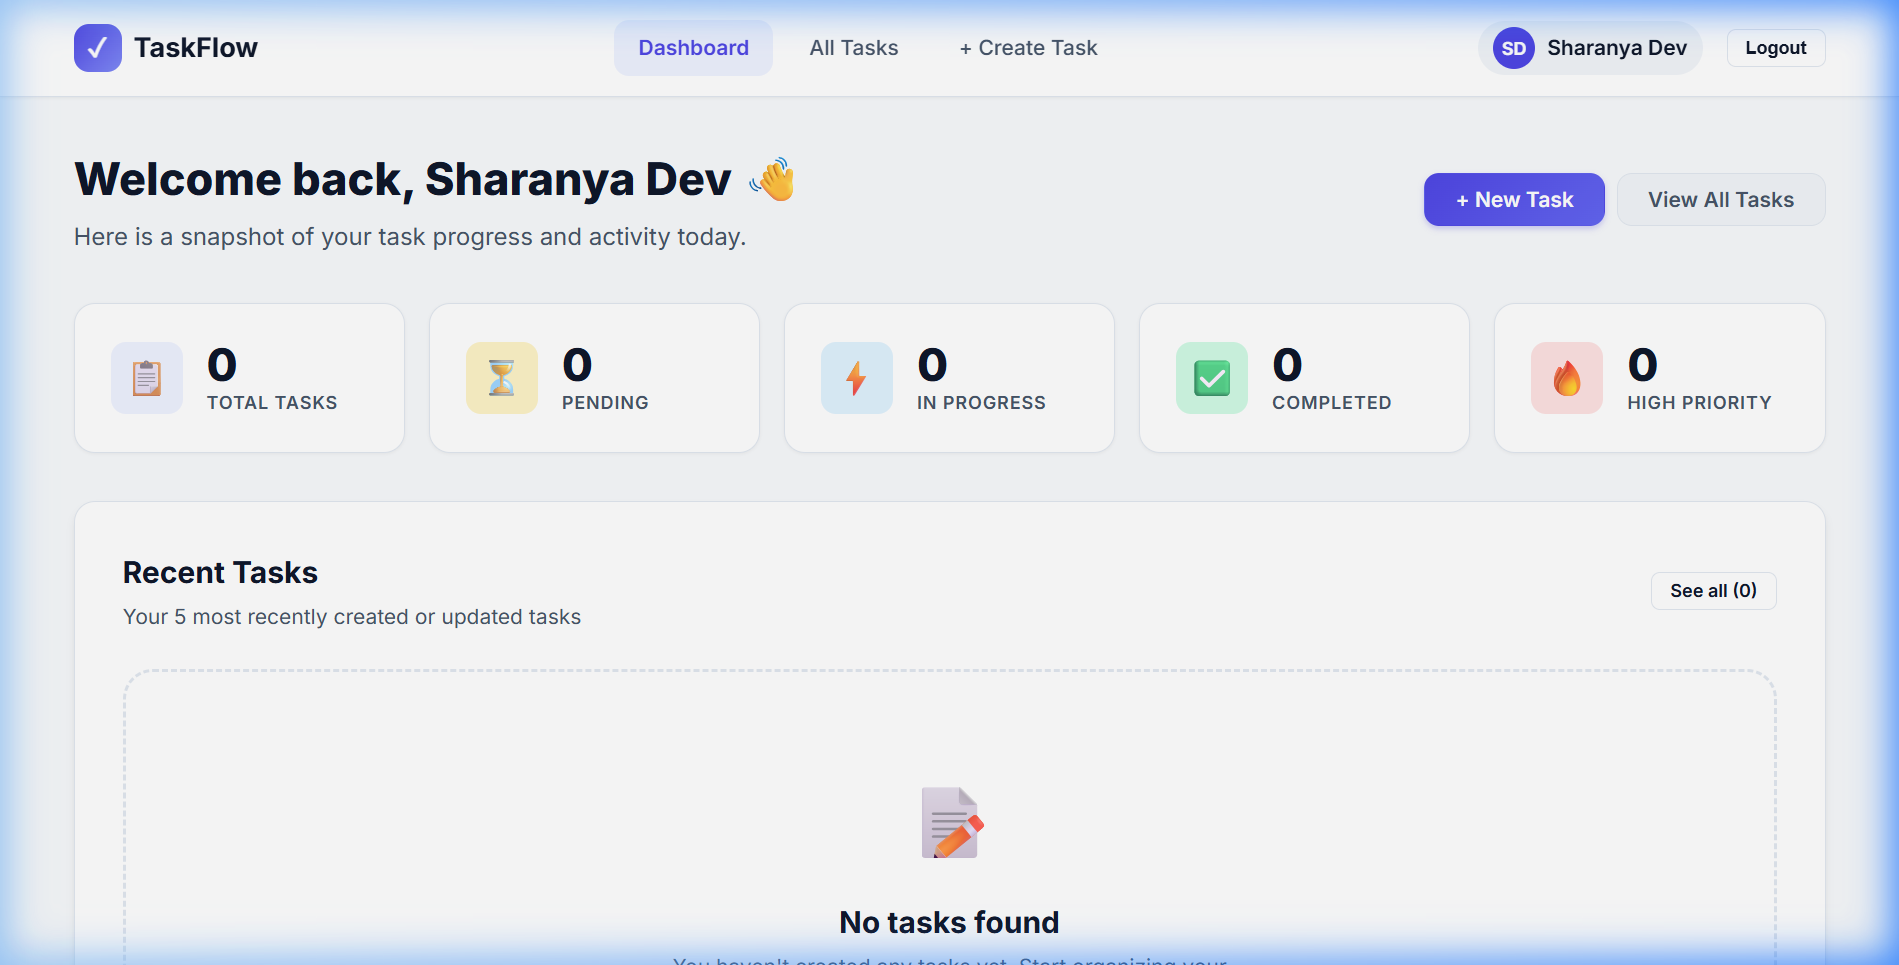
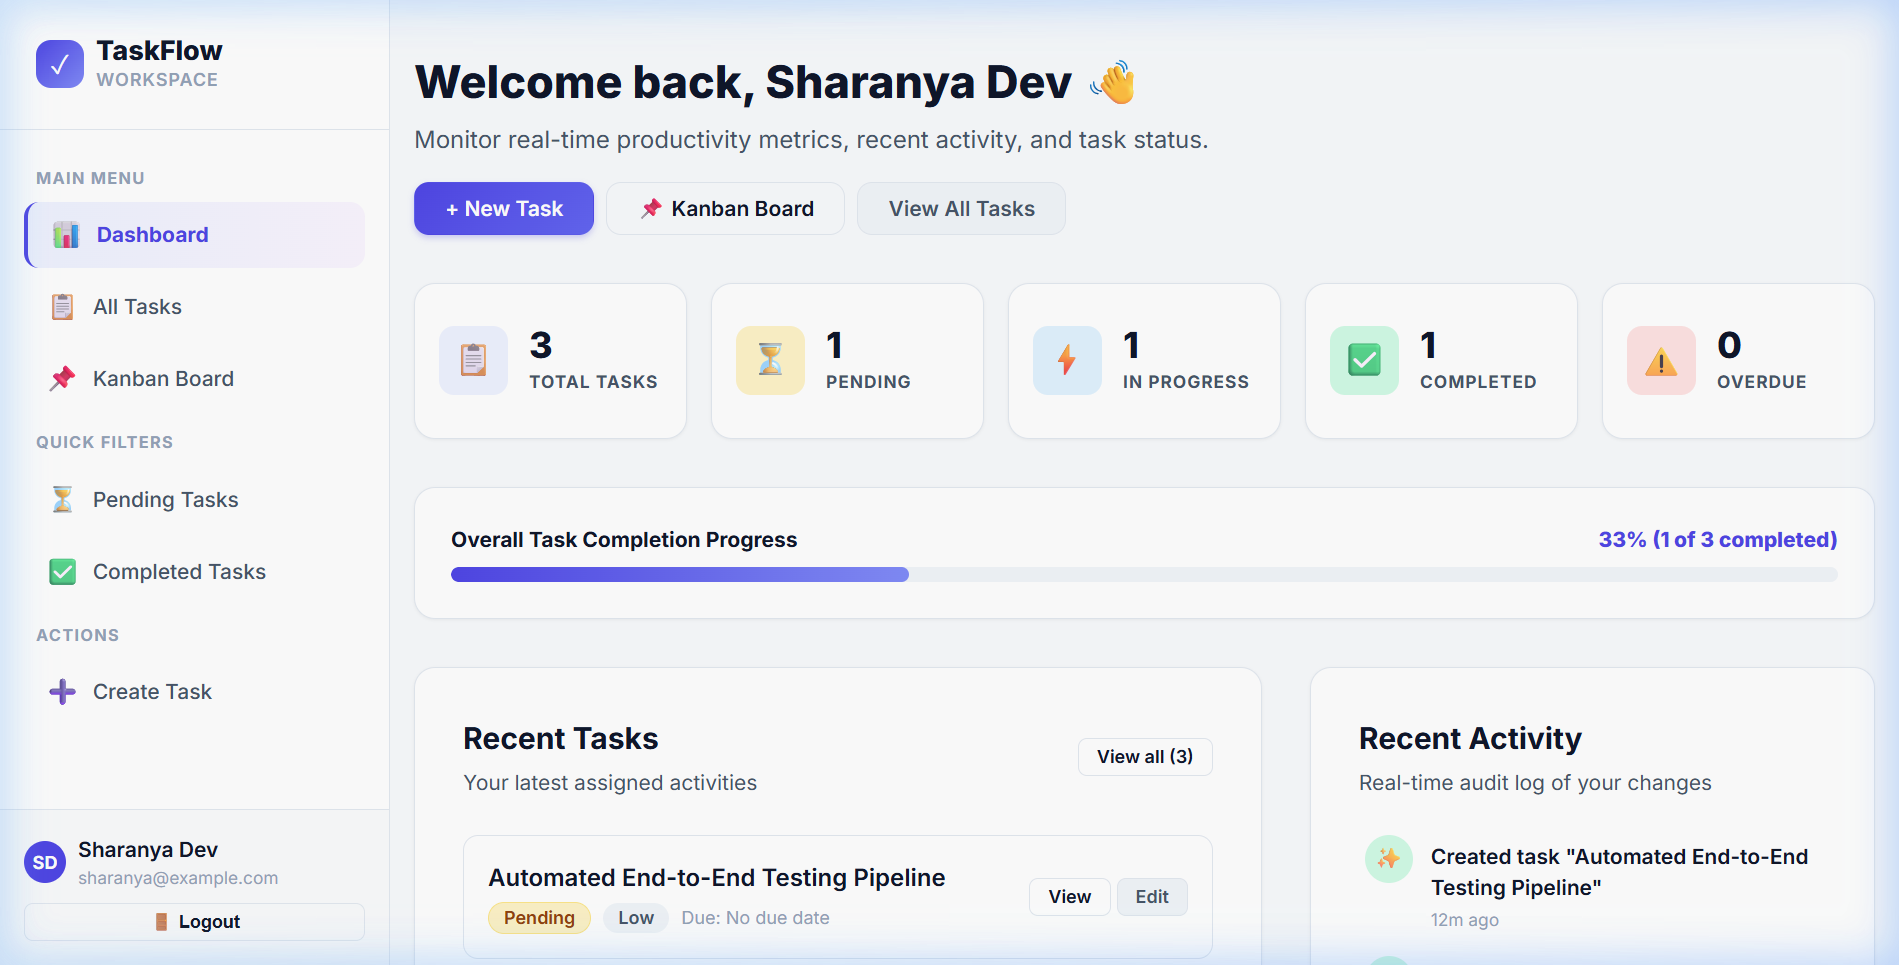
fix(ui): balance 5-card dashboard grid, add native DnD to kanban, quick status on task list, safe date parsing, and accessibility focus

diff --git a/frontend/src/styles/global.css b/frontend/src/styles/global.css
@@ -572,12 +572,12 @@ a:hover {
 }
 
 /* ==========================================================================
-   Dashboard Metrics
+   Dashboard Metrics (5 Cards Symmetrical Grid)
    ========================================================================== */
 
 .metrics-grid {
   display: grid;
-  grid-template-columns: repeat(auto-fit, minmax(220px, 1fr));
+  grid-template-columns: repeat(5, 1fr);
   gap: var(--space-md);
   margin-bottom: var(--space-xl);
 }
@@ -586,47 +586,104 @@ a:hover {
   background: var(--bg-surface);
   border: 1px solid var(--border-color);
   border-radius: var(--radius-lg);
-  padding: var(--space-lg);
+  padding: 1.25rem 1rem;
   box-shadow: var(--shadow-sm);
   display: flex;
   align-items: center;
-  gap: var(--space-md);
+  gap: 0.875rem;
+  min-height: 104px;
   transition: var(--transition);
+  position: relative;
+  overflow: hidden;
 }
 
 .metric-card:hover {
   transform: translateY(-2px);
   box-shadow: var(--shadow-md);
+  border-color: var(--primary-light);
 }
 
 .metric-icon {
-  width: 48px;
-  height: 48px;
+  width: 46px;
+  height: 46px;
   border-radius: var(--radius-md);
   display: flex;
   align-items: center;
   justify-content: center;
-  font-size: 1.5rem;
+  font-size: 1.35rem;
+  flex-shrink: 0;
 }
 
 .metric-info {
   display: flex;
   flex-direction: column;
+  min-width: 0;
 }
 
 .metric-value {
-  font-size: var(--font-size-3xl);
+  font-size: var(--font-size-2xl);
   font-weight: 800;
   color: var(--text-primary);
   line-height: 1.1;
 }
 
 .metric-label {
-  font-size: var(--font-size-xs);
-  font-weight: 600;
+  font-size: 0.72rem;
+  font-weight: 700;
   color: var(--text-secondary);
   text-transform: uppercase;
-  letter-spacing: 0.05em;
+  letter-spacing: 0.06em;
+  margin-top: 2px;
+  white-space: nowrap;
+  overflow: hidden;
+  text-overflow: ellipsis;
+}
+
+@media (max-width: 1200px) and (min-width: 769px) {
+  .metrics-grid {
+    grid-template-columns: repeat(6, 1fr);
+  }
+  .metric-card:nth-child(1),
+  .metric-card:nth-child(2),
+  .metric-card:nth-child(3) {
+    grid-column: span 2;
+  }
+  .metric-card:nth-child(4),
+  .metric-card:nth-child(5) {
+    grid-column: span 3;
+  }
+}
+
+@media (max-width: 768px) and (min-width: 521px) {
+  .metrics-grid {
+    grid-template-columns: repeat(6, 1fr);
+    gap: var(--space-sm);
+  }
+  .metric-card:nth-child(1),
+  .metric-card:nth-child(2),
+  .metric-card:nth-child(3) {
+    grid-column: span 2;
+  }
+  .metric-card:nth-child(4),
+  .metric-card:nth-child(5) {
+    grid-column: span 3;
+  }
+}
+
+@media (max-width: 520px) {
+  .metrics-grid {
+    grid-template-columns: repeat(2, 1fr);
+    gap: var(--space-sm);
+  }
+  .metric-card:nth-child(1),
+  .metric-card:nth-child(2),
+  .metric-card:nth-child(3),
+  .metric-card:nth-child(4) {
+    grid-column: span 1;
+  }
+  .metric-card:nth-child(5) {
+    grid-column: span 2;
+  }
 }
 
 /* ==========================================================================

diff --git a/frontend/src/pages/KanbanBoard.jsx b/frontend/src/pages/KanbanBoard.jsx
@@ -52,6 +52,32 @@ export default function KanbanBoard() {
     }
   };
 
+  const [draggedTaskId, setDraggedTaskId] = useState(null);
+
+  const handleDragStart = (e, taskId) => {
+    setDraggedTaskId(taskId);
+    e.dataTransfer.setData('text/plain', String(taskId));
+    e.dataTransfer.effectAllowed = 'move';
+  };
+
+  const handleDragOver = (e) => {
+    e.preventDefault();
+    e.dataTransfer.dropEffect = 'move';
+  };
+
+  const handleDrop = (e, targetStatus) => {
+    e.preventDefault();
+    const idStr = e.dataTransfer.getData('text/plain') || String(draggedTaskId);
+    const taskId = parseInt(idStr, 10);
+    if (taskId) {
+      const task = tasks.find((t) => t.id === taskId);
+      if (task && task.status !== targetStatus) {
+        handleStatusChange(taskId, targetStatus);
+      }
+    }
+    setDraggedTaskId(null);
+  };
+
   const formatDate = (isoString) => {
     if (!isoString) return null;
     try {
@@ -108,7 +134,12 @@ export default function KanbanBoard() {
           {COLUMNS.map((col) => {
             const colTasks = tasks.filter((t) => t.status === col.id);
             return (
-              <div key={col.id} className="kanban-column">
+              <div
+                key={col.id}
+                className="kanban-column"
+                onDragOver={handleDragOver}
+                onDrop={(e) => handleDrop(e, col.id)}
+              >
                 <div
                   className="kanban-column-header"
                   style={{ borderTop: `3px solid ${col.color}` }}
@@ -132,7 +163,13 @@ export default function KanbanBoard() {
                     <div className="kanban-empty">No tasks in {col.title.toLowerCase()}</div>
                   ) : (
                     colTasks.map((task) => (
-                      <div key={task.id} className="kanban-card">
+                      <div
+                        key={task.id}
+                        className="kanban-card"
+                        draggable
+                        onDragStart={(e) => handleDragStart(e, task.id)}
+                        style={{ cursor: 'grab' }}
+                      >
                         <div style={{ display: 'flex', justifyContent: 'space-between', alignItems: 'flex-start', gap: '8px', marginBottom: '8px' }}>
                           <Link
                             to={`/tasks/${task.id}`}

diff --git a/frontend/src/components/Sidebar.jsx b/frontend/src/components/Sidebar.jsx
@@ -1,5 +1,5 @@
 // src/components/Sidebar.jsx
-import { useState } from 'react';
+import { useState, useEffect } from 'react';
 import { NavLink, useNavigate, useLocation } from 'react-router-dom';
 import { useAuth } from '../context/AuthContext.jsx';
 import { useToast } from '../context/ToastContext.jsx';
@@ -18,6 +18,16 @@ export default function Sidebar() {
   };
 
   const closeMobile = () => setMobileOpen(false);
+
+  // Close drawer on Escape key press
+  useEffect(() => {
+    if (!mobileOpen) return;
+    const handleKeyDown = (e) => {
+      if (e.key === 'Escape') setMobileOpen(false);
+    };
+    window.addEventListener('keydown', handleKeyDown);
+    return () => window.removeEventListener('keydown', handleKeyDown);
+  }, [mobileOpen]);
 
   const getInitials = (name) => {
     if (!name) return 'U';
@@ -68,6 +78,26 @@ export default function Sidebar() {
             <span className="brand-title">TaskFlow</span>
             <span className="brand-subtitle">Workspace</span>
           </div>
+          {mobileOpen && (
+            <button
+              type="button"
+              onClick={closeMobile}
+              className="btn-drawer-close"
+              aria-label="Close sidebar"
+              style={{
+                marginLeft: 'auto',
+                background: 'none',
+                border: 'none',
+                fontSize: '1.25rem',
+                cursor: 'pointer',
+                color: 'var(--text-secondary)',
+                padding: '4px 8px',
+                lineHeight: 1,
+              }}
+            >
+              ✕
+            </button>
+          )}
         </div>
 
         <nav className="sidebar-nav">

diff --git a/frontend/src/pages/TaskList.jsx b/frontend/src/pages/TaskList.jsx
@@ -102,6 +102,18 @@ export default function TaskList() {
       return 0;
     });
 
+  const handleStatusChange = async (taskId, newStatus) => {
+    try {
+      await tasksAPI.update(taskId, { status: newStatus });
+      setTasks((prev) =>
+        prev.map((t) => (t.id === taskId ? { ...t, status: newStatus } : t))
+      );
+      toast.success(`Task status changed to ${newStatus.replace('-', ' ')}`);
+    } catch (err) {
+      toast.error(err.message || 'Failed to update task status.');
+    }
+  };
+
   const handleDeleteConfirm = async () => {
     if (!taskToDelete) return;
     setIsDeleting(true);
@@ -285,6 +297,18 @@ export default function TaskList() {
               </div>
 
               <div className="task-card-actions">
+                <select
+                  value={task.status}
+                  onChange={(e) => handleStatusChange(task.id, e.target.value)}
+                  className="form-select"
+                  style={{ padding: '3px 8px', fontSize: '12px', width: 'auto', marginRight: 'auto' }}
+                  aria-label={`Update status for ${task.title}`}
+                >
+                  <option value="pending">Pending</option>
+                  <option value="in-progress">In Progress</option>
+                  <option value="completed">Completed</option>
+                </select>
+
                 <Link to={`/tasks/${task.id}`} className="btn btn-outline btn-sm">
                   Details
                 </Link>

diff --git a/frontend/src/pages/CreateTask.jsx b/frontend/src/pages/CreateTask.jsx
@@ -49,12 +49,20 @@ export default function CreateTask() {
     setApiError('');
 
     try {
+      let validDueDate = null;
+      if (formData.dueDate) {
+        const parsed = new Date(formData.dueDate);
+        if (!isNaN(parsed.getTime())) {
+          validDueDate = parsed.toISOString();
+        }
+      }
+
       const payload = {
         title: formData.title.trim(),
         description: formData.description.trim() || null,
         status: formData.status,
         priority: formData.priority,
-        dueDate: formData.dueDate ? new Date(formData.dueDate).toISOString() : null,
+        dueDate: validDueDate,
       };
 
       const res = await tasksAPI.create(payload);

diff --git a/frontend/src/pages/EditTask.jsx b/frontend/src/pages/EditTask.jsx
@@ -78,12 +78,20 @@ export default function EditTask() {
     setSuccessMsg('');
 
     try {
+      let validDueDate = null;
+      if (formData.dueDate) {
+        const parsed = new Date(formData.dueDate);
+        if (!isNaN(parsed.getTime())) {
+          validDueDate = parsed.toISOString();
+        }
+      }
+
       const payload = {
         title: formData.title.trim(),
         description: formData.description.trim() || null,
         status: formData.status,
         priority: formData.priority,
-        dueDate: formData.dueDate ? new Date(formData.dueDate).toISOString() : null,
+        dueDate: validDueDate,
       };
 
       await tasksAPI.update(id, payload);

diff --git a/frontend/src/components/ConfirmDialog.jsx b/frontend/src/components/ConfirmDialog.jsx
@@ -1,4 +1,5 @@
-// src/components/ConfirmDialog.jsx
+import { useEffect } from 'react';
+
 export default function ConfirmDialog({
   isOpen,
   title = 'Confirm Action',
@@ -10,6 +11,17 @@ export default function ConfirmDialog({
   onConfirm,
   onCancel,
 }) {
+  useEffect(() => {
+    if (!isOpen) return;
+    const handleKeyDown = (e) => {
+      if (e.key === 'Escape' && !isLoading) {
+        onCancel();
+      }
+    };
+    window.addEventListener('keydown', handleKeyDown);
+    return () => window.removeEventListener('keydown', handleKeyDown);
+  }, [isOpen, isLoading, onCancel]);
+
   if (!isOpen) return null;
 
   return (

diff --git a/frontend/src/pages/Dashboard.jsx b/frontend/src/pages/Dashboard.jsx
@@ -40,7 +40,11 @@ export default function Dashboard() {
   const overdueCount = tasks.filter((t) => {
     if (!t.dueDate || t.status === 'completed') return false;
     try {
-      return new Date(t.dueDate) < now;
+      const due = new Date(t.dueDate);
+      if (isNaN(due.getTime())) return false;
+      // Evaluate overdue against end of due date (23:59:59) so tasks due today are not flagged prematurely
+      const dueEndOfDay = new Date(due.getFullYear(), due.getMonth(), due.getDate(), 23, 59, 59, 999);
+      return dueEndOfDay < now;
     } catch {
       return false;
     }

diff --git a/README.md b/README.md
@@ -44,7 +44,9 @@ The backend delivers a secure REST API with JWT-based authentication, user passw
 
 | View | Screenshot | Description |
 | :--- | :---: | :--- |
-| **Dashboard Overview** | ![Dashboard Overview](docs/screenshots/dashboard_overview.png) | Real-time metrics (Total, Pending, In Progress, Completed, Overdue), progress bar, recent tasks, and activity timeline. |
+| **Dashboard Overview** | ![Dashboard Overview](docs/screenshots/dashboard_overview.png) | Symmetrical 5-metric cards, progress bar, recent tasks, and real-time activity timeline. |
+| **Kanban Task Board** | ![Kanban Board](docs/screenshots/kanban_board.png) | Interactive visual workflow board with 3 status columns, drag & drop, and dropdown controls. |
+| **All Tasks & Filters** | ![All Tasks](docs/screenshots/task_list_filters.png) | Real-time keyword search, status and priority filters, sorting, and quick status controls. |
 | **Task Details View** | ![Task Details](docs/screenshots/task_details.png) | Individual task view with status & priority badges, description, and metadata timestamps. |
 | **Task Edit Form** | ![Edit Task](docs/screenshots/edit_task_page.png) | Validated form with prefilled task data and instant update mutation. |
 | **Mobile Drawer Navigation** | ![Mobile View](docs/screenshots/mobile_view.png) | Tested at 375px mobile viewport with responsive sidebar drawer and clean layout. |
